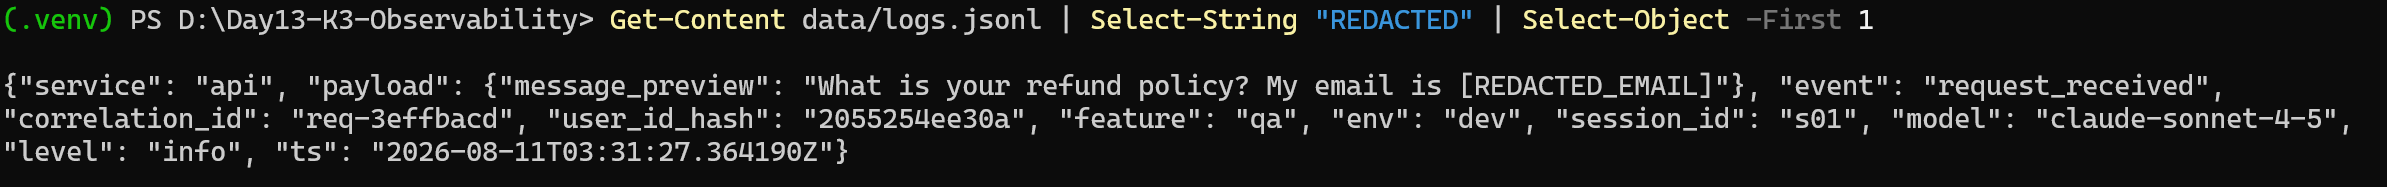
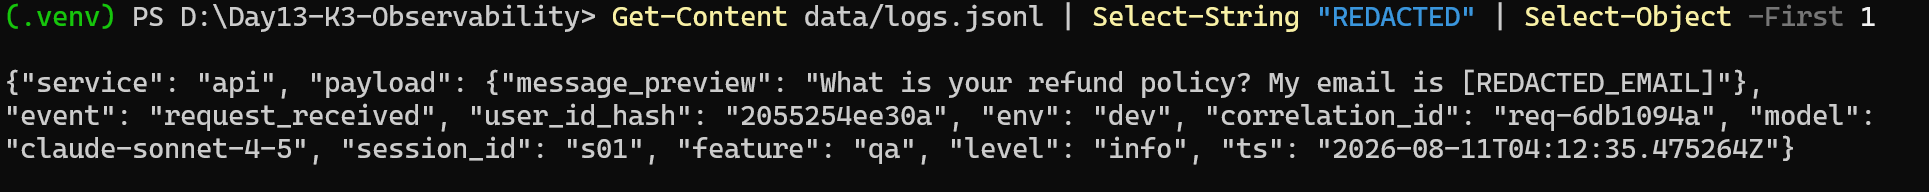
CP1

Changed region(s): [[0.0, 0.3476, 0.9953, 0.8824], [0.0, 0.0267, 0.9953, 0.1872]]

diff --git a/app/main.py b/app/main.py
@@ -6,7 +6,6 @@ from contextlib import asynccontextmanager
 from fastapi import FastAPI, HTTPException, Request
 from fastapi.responses import JSONResponse
 from structlog.contextvars import bind_contextvars
-from contextlib import asynccontextmanager
 
 from .agent import LabAgent
 from .incidents import disable, enable, status
@@ -48,6 +47,10 @@ async def handle_unexpected_exception(request: Request, exc: Exception) -> JSONR
         service="api",
         error_type=error_type,
         correlation_id=correlation_id,
+        user_id_hash=getattr(request.state, "user_id_hash", None),
+        session_id=getattr(request.state, "session_id", None),
+        feature=getattr(request.state, "feature", None),
+        model=getattr(request.state, "model", None),
     )
     return JSONResponse(
         status_code=500,
@@ -68,14 +71,24 @@ async def metrics() -> dict:
 
 @app.post("/chat", response_model=ChatResponse)
 async def chat(request: Request, body: ChatRequest) -> ChatResponse:
+    user_id_hash = hash_user_id(body.user_id)
+    # Also stashed on request.state (not just contextvars): BaseHTTPMiddleware runs this
+    # handler in a separate task, so if agent.run() raises, the Exception handler wired
+    # into ServerErrorMiddleware (outside that task) can't see contextvars bound here —
+    # request.state is a plain object reference and survives the task boundary.
+    request.state.user_id_hash = user_id_hash
+    request.state.session_id = body.session_id
+    request.state.feature = body.feature
+    request.state.model = agent.model
+
     bind_contextvars(
-        user_id_hash=hash_user_id(body.user_id),
+        user_id_hash=user_id_hash,
         session_id=body.session_id,
         feature=body.feature,
         model=agent.model,
         env=os.getenv("APP_ENV", "dev"),
     )
-    
+
     log.info(
         "request_received",
         service="api",
